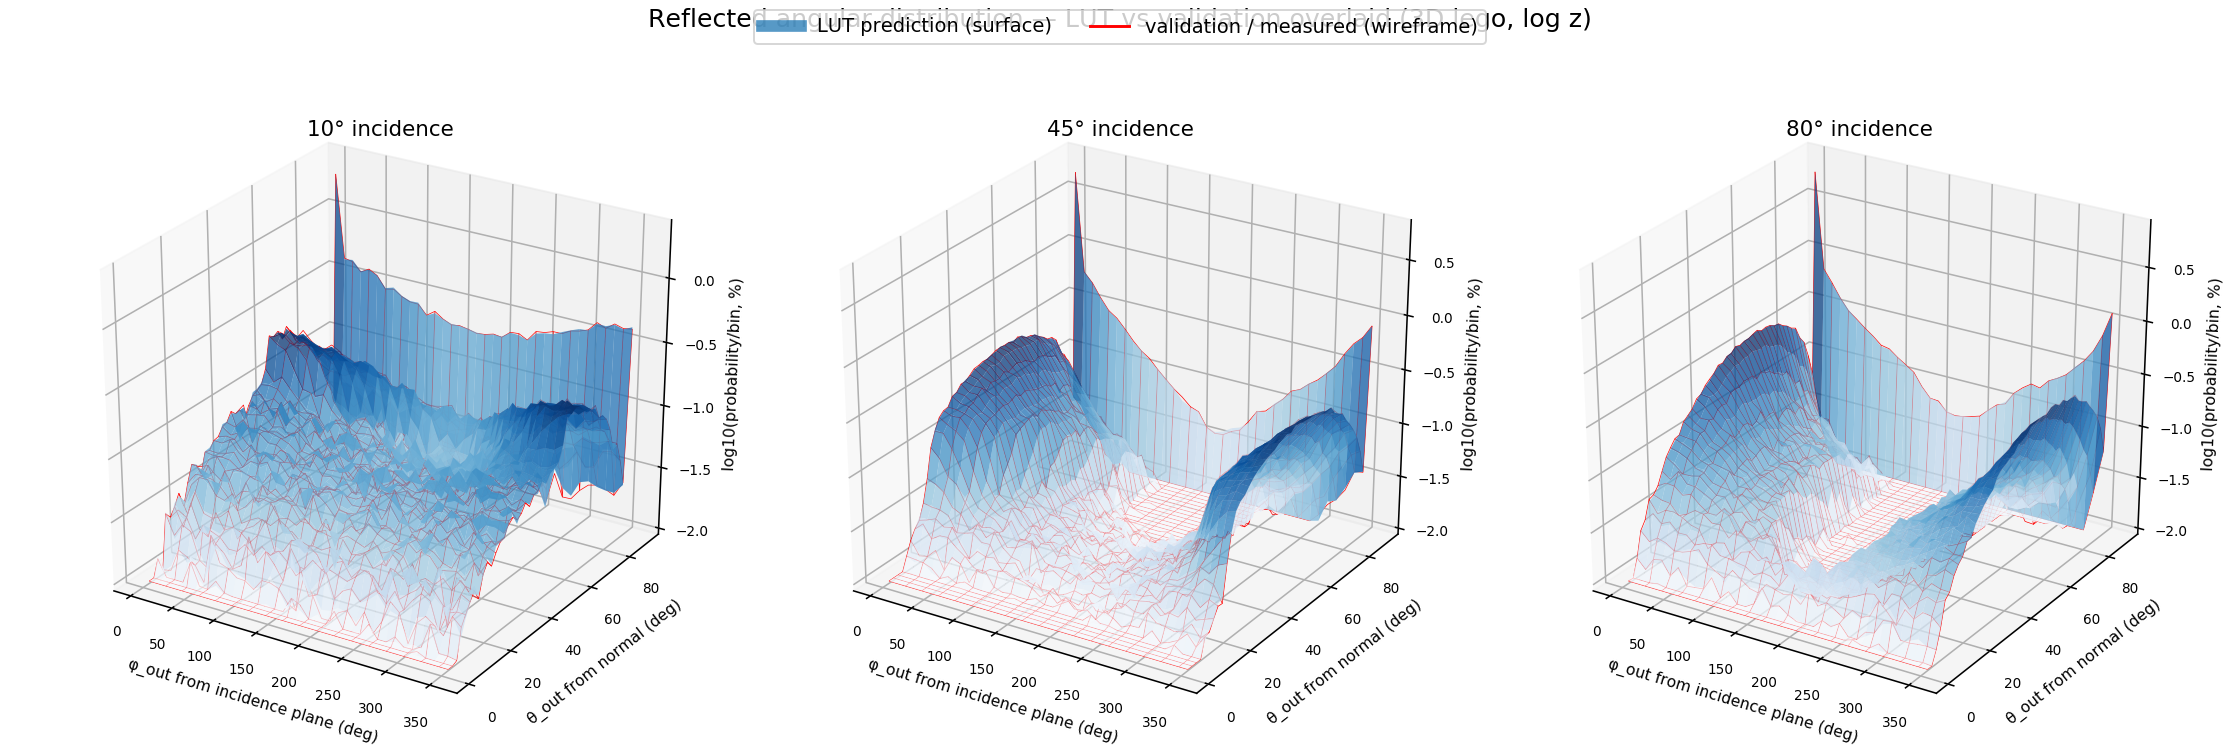
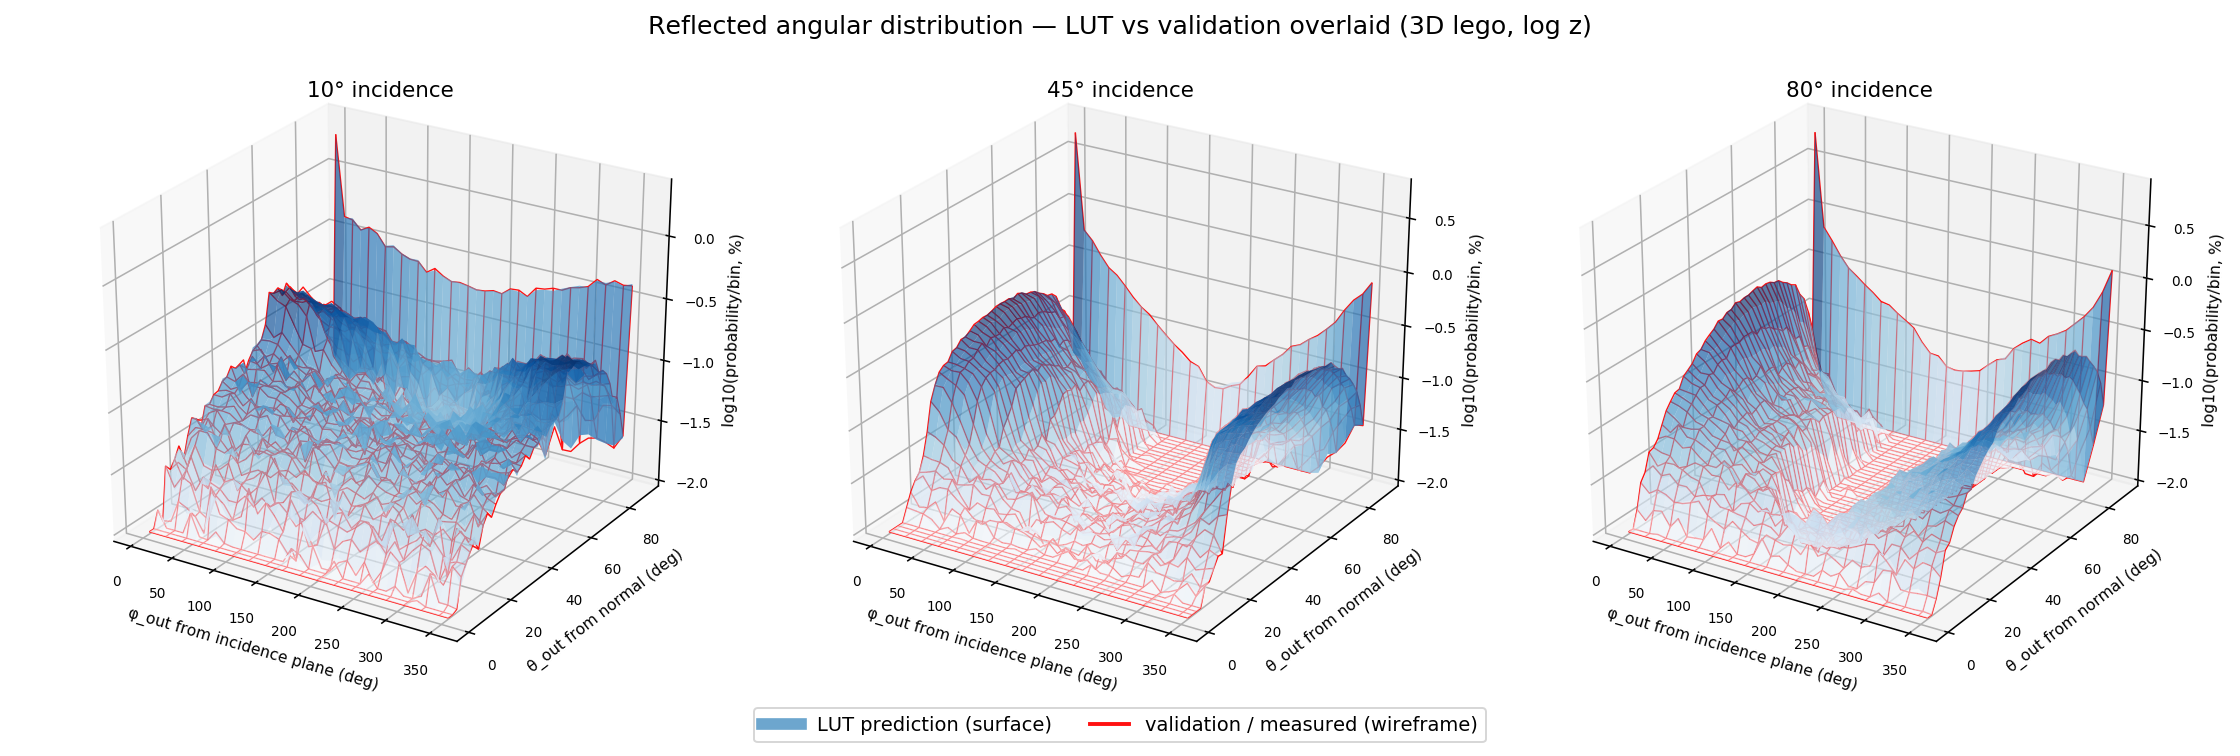
DavisLUT validation: geometry experiment as primary; drop standalone rule-level MC check
- Remove the rule-level Monte-Carlo check (validate_lut.cpp, plot_validation.py, and its
  validation_polar.png) from the bundle.
- Expand VALIDATION.md with the full geometry-experiment setup (block/interface at z=0,
  collimated source, monitor placement, what theta_out is measured, grazing-collection caveat).
- validation_heatmap.png (3D-lego LUT-vs-validation overlay) kept as a supplementary 2D
  angular view: legend moved to the bottom (no longer masks the title) and the red
  validation wireframe made brighter/thicker.

diff --git a/ants3bundle/script/DavisLUT_reproduce/validation/plot_lego.py b/ants3bundle/script/DavisLUT_reproduce/validation/plot_lego.py
@@ -22,16 +22,16 @@ for i,a in enumerate(ANG):
     PHI,THO=np.meshgrid(phi,tho); FLOOR=1e-2
     Zl=np.log10(np.maximum(pred*100,FLOOR)); Zm=np.log10(np.maximum(meas*100,FLOOR))
     ax=fig.add_subplot(1,3,i+1,projection="3d")
-    ax.plot_surface(PHI,THO,Zl,cmap="Blues",alpha=0.75,linewidth=0,antialiased=True)
-    ax.plot_wireframe(PHI,THO,Zm,color="red",linewidth=0.35,rstride=1,cstride=2)
+    ax.plot_surface(PHI,THO,Zl,cmap="Blues",alpha=0.65,linewidth=0,antialiased=True)
+    ax.plot_wireframe(PHI,THO,Zm,color="#ff1111",linewidth=0.7,rstride=1,cstride=2)
     ax.set_zlim(np.log10(FLOOR), max(Zl.max(),Zm.max())+0.1)
     ax.set_xlabel("φ_out from incidence plane (deg)",fontsize=8,labelpad=2)
     ax.set_ylabel("θ_out from normal (deg)",fontsize=8,labelpad=2)
     ax.set_zlabel("log10(probability/bin, %)",fontsize=8,labelpad=2)
     ax.set_title(f"{a}° incidence",fontsize=11); ax.view_init(elev=28,azim=-58); ax.tick_params(labelsize=7)
-handles=[Line2D([0],[0],color="tab:blue",lw=6,alpha=0.75,label="LUT prediction (surface)"),
-         Line2D([0],[0],color="red",lw=1.5,label="validation / measured (wireframe)")]
-fig.legend(handles=handles,loc="upper center",ncol=2,fontsize=10,frameon=True)
-fig.suptitle("Reflected angular distribution — LUT vs validation overlaid (3D lego, log z)",y=0.99,fontsize=13)
-fig.tight_layout(rect=(0,0,1,0.9)); fig.savefig(os.path.join(FIG,"validation_heatmap.png"),dpi=140)
+handles=[Line2D([0],[0],color="tab:blue",lw=6,alpha=0.65,label="LUT prediction (surface)"),
+         Line2D([0],[0],color="#ff1111",lw=2.0,label="validation / measured (wireframe)")]
+fig.suptitle("Reflected angular distribution — LUT vs validation overlaid (3D lego, log z)",y=0.98,fontsize=13)
+fig.legend(handles=handles,loc="lower center",ncol=2,fontsize=10,frameon=True,bbox_to_anchor=(0.5,0.005))
+fig.tight_layout(rect=(0,0.07,1,0.95)); fig.savefig(os.path.join(FIG,"validation_heatmap.png"),dpi=140)
 print("wrote figures/validation_heatmap.png")

diff --git a/ants3bundle/script/DavisLUT_reproduce/validation/VALIDATION.md b/ants3bundle/script/DavisLUT_reproduce/validation/VALIDATION.md
@@ -1,53 +1,65 @@
 # Validating the DavisLUT rule
 
-Two complementary checks that the runtime rule reproduces the LUT it was built from, and that
-the reflected angular distribution (including the grazing / theta_out=90 deg feature) is
-faithful. Both use the 28 um ensemble LUT in `../luts/`.
+The validation is a **literal geometry experiment**: fire collimated light at a LYSO->air
+interface at a known incidence angle, catch the reflected photons with a detector, and compare
+their measured angular distribution to what the LUT predicts.
 
-## 1. Literal geometry experiment (source -> interface -> detector)
+## The experiment (`validate_geom.js`, run headless with `ants3 -j`)
 
-`validate_geom.js` — a full headless ANTS3 photon simulation. A collimated source inside a
-LYSO block fires at a fixed incidence angle (10, 45, 80 deg) at the LYSO->air interface (where
-the DavisLUT rule acts); a thin photon monitor just below the interface catches the reflected
-photons and records their polar angle theta_out. This exercises the whole chain
-tracer-normal -> rule -> reflected direction -> sensor.
+**Geometry** (all in mm; surface normal is +z):
+- An air world box; inside it a **LYSO block** `[100 x 100 x 20]` placed so its **top face sits
+  at z = 0** (the block spans z = -20..0). The top face is the **LYSO -> air interface**, where
+  the `DavisLUT` rule acts.
+- Materials from the loaded config: LYSO = material 1 (n = 1.824), air = material 0 (n = 1.0).
+- The forward LUT (`pooled_28um_fwd.lut`) is assigned to LYSO -> air and the reverse LUT
+  (`pooled_28um_rev.lut`) to air -> LYSO.
 
-Run (needs a built `bin/ants3`), from this directory:
+**Source** — a single collimated pencil beam of 3e5 photons at `(0, 0, -0.05)`, i.e. 0.05 mm
+below the interface, aimed **upward** with direction `(sin θ, 0, cos θ)` so it strikes the
+interface at incidence angle **θ = 10, 45, 80 deg** (via `PhGenOverrides.Direction = Fixed`).
+The beam lies in the x-z plane, so the **incidence plane is x-z**.
+
+**Detector** — a thin **photon monitor** (48 mm half-size, horizontal) placed at **z = -0.1 mm**,
+just below the interface and below the source, inside the LYSO. Because the beam is emitted
+upward, only **reflected** photons (which travel back downward after the interface) reach the
+monitor. The monitor records, per photon, the angle `acos(N . v)` between its face normal
+(vertical) and the photon direction — i.e. the **polar angle θ_out from the surface normal** —
+into a 1D histogram (90 bins over 0..90 deg). It stops tracking on hit, so each reflected photon
+is counted once. Transmitted photons go up into the air and never reach the monitor.
+
+So the experiment measures the **θ_out distribution of reflected photons** at each incidence
+angle, through the full ANTS3 chain: tracer computes the interface normal -> invokes the
+DavisLUT rule -> reflected direction -> sensor. It is the direct analogue of the paper's
+"collimated beam + hemispherical detector" measurement (fig. 8).
+
+**Run:**
 ```bash
-ants3 -j validate_geom.js         # writes data/geom_{10,45,80}.txt
-python3 plot_geom.py              # figures/validation_geom_linear.png, validation_geom_polar.png
+ants3 -j validate_geom.js      # needs a built bin/ants3; writes data/geom_{10,45,80}.txt
+python3 plot_geom.py           # figures/validation_geom_linear.png, validation_geom_polar.png
 ```
-Result: the measured theta_out distribution overlays the LUT prediction across the whole range,
-including the grazing spike; the only difference is a small deficit at theta_out -> 90 deg,
-where near-horizontal reflected photons skim the surface and a few percent leave the block
-before reaching the finite monitor (a real detector-collection effect).
 
-## 2. Rule-level Monte-Carlo check (samples the exact runtime code)
+**Result.** The measured θ_out distribution overlays the LUT prediction across the whole range
+at all three angles (mean θ_out within ~0.6 deg), including the strong grazing component near
+90 deg. The one systematic difference is a small **deficit right at θ_out -> 90 deg**: those
+reflected photons are nearly horizontal, travel a long lateral distance, and a few percent leave
+the block through its sides before reaching the finite monitor. That is a real
+detector-collection effect (grazing-reflected light skims along the surface), not a rule error.
 
-`validate_lut.cpp` — drives the real runtime sampling (`ALutSurfaceData::selectThetaBin` +
-`sampleOutgoing`, i.e. what `ALutInterfaceRule::calculate()` calls) for 2e6 photons per angle
-and reconstructs (theta_out, phi_out) of the reflected photons. Compile against the built
-object files, e.g.:
+## Supplementary 2D angular view (`validation_heatmap.png`)
+
+The monitor gives the θ_out marginal cleanly but not the joint (θ_out, φ_out) map. To also check
+the **full 2D** reflected distribution (including the azimuth and the θ_out = 90 deg ridge),
+`plot_lego.py` draws a 3D lego (log z): the **LUT prediction as a blue surface** and, overlaid,
+a **direct per-interaction sampling of the same rule** as a red wireframe (bundled in
+`data/valid_{10,45,80}.txt`). The wireframe tracks the surface everywhere, confirming the rule
+reproduces the stored 2D distribution. (This 2D cross-check uses direct sampling of the rule
+rather than the geometry monitor, which only records θ_out.)
 ```bash
-cd <repo>/ants3bundle/src/ants3
-g++ -O2 -std=c++17 -I. -Itools -IphotonSim -IphotonSim/interfaceRules $(root-config --cflags) \
-    -I<Qt>/include -I<Qt>/include/QtCore \
-    <this>/validate_lut.cpp alutsurfacedata.o ajsontools.o aerrorhub.o \
-    -L<Qt>/lib -lQt6Core -std=c++17 -o validate_lut
-./validate_lut <this>/../luts/pooled_28um_fwd.lut <this>/data     # writes data/valid_{10,45,80}.txt
+python3 plot_lego.py           # figures/validation_heatmap.png
 ```
-Then plot:
-```bash
-python3 plot_validation.py        # figures/validation_polar.png  (measured vs LUT, polar)
-python3 plot_lego.py              # figures/validation_heatmap.png (3D lego overlay, log z)
-```
-Result: measured vs stored-LUT agree to Monte-Carlo noise (theta_out total-variation distance
-~0.002), reflectance R matches to ~0.001, and the theta_out=90 deg bin fraction matches to
-three digits (0.124 / 0.125 / 0.149 for 10 / 45 / 80 deg) — confirming the 90 deg feature is a
-faithful, deterministic consequence of the medium-based escape handling (see the main notes).
 
 ## Files
-- `validate_geom.js`, `plot_geom.py` — geometry experiment + plots
-- `validate_lut.cpp`, `plot_validation.py`, `plot_lego.py` — rule-level check + plots
-- `data/` — the intermediate outputs, so the plotters regenerate the figures immediately
+- `validate_geom.js`, `plot_geom.py` — the geometry experiment and its θ_out plots (linear + polar)
+- `plot_lego.py` — the supplementary 2D angular lego overlay
+- `data/` — intermediate outputs, so the plotters regenerate the figures immediately
 - `figures/` — the reference figures
